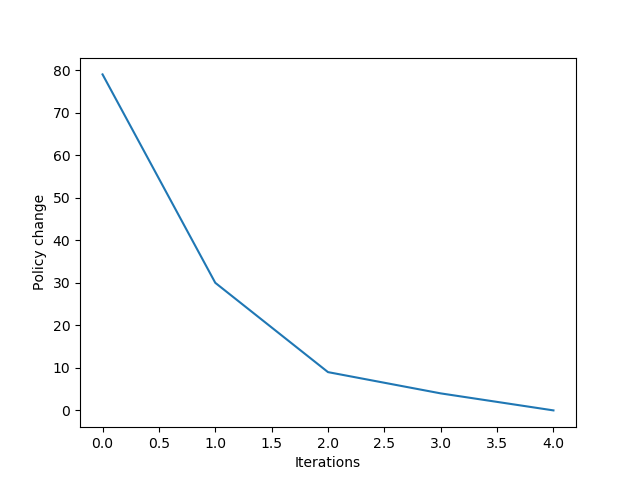
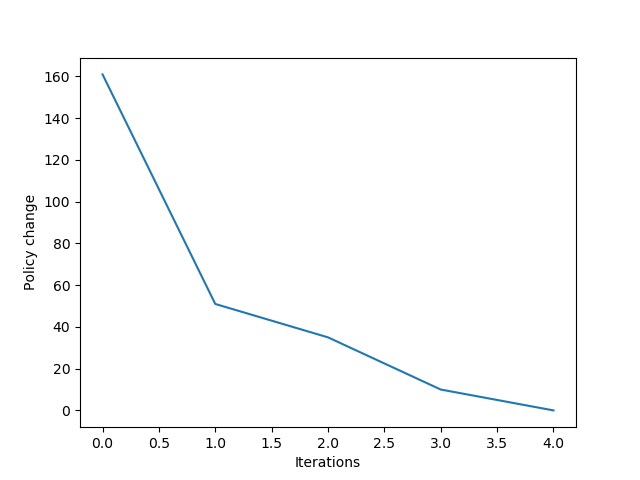
remove iteration functions

diff --git a/rlagent.py b/rlagent.py
@@ -367,128 +367,128 @@ class GMCAgent:
         return rew, r
 
 
-class DQNAgent(GMCAgent):
-    def __init__(self, lr=0.01, gamma=0.99, init_epsilon=0.9, threshold=0.1,
-                 max_steps=3000, transformer=None):
-        GMCAgent.__init__(self, lr=lr, gamma=gamma, init_epsilon=init_epsilon, threshold=threshold,
-                          max_steps=max_steps, transformer=transformer)
-        self.decision = None
-        self.memory = deque(maxlen=100000)
-
-    def Q(self, s, a):
-        return self.decision.predict(self.transform(s))[a]
-
-    def V(self, s):
-        return self.decision.predict(self.transform(s))
-
-    def policy(self, s):
-        return self.decision.predict(self.transform(s)).argmax()
-
-    def move(self, s):
-        epsilon = max(self.epsilon, self.thresh)
-        if np.random.random() < epsilon:
-            return np.random.randint(self.w.shape[1])
-        else:
-            return self.policy(s)
-
-    def _init_weights(self, env):
-        input_shape = self.transform(np.random.randn(1, env.observation_space.shape[0])).shape[1]
-        output_shape = env.action_space.n
-        self.w = np.random.randn(input_shape, output_shape)
-        model = Sequential()
-        model.add(Dense(150, input_shape=(input_shape,), activation='relu'))
-        model.add(Dense(100, activation='relu'))
-        # model.add(Dense(100, activation='relu'))
-        model.add(Dense(output_shape, activation=None))
-        model.compile(loss='mse', optimizer=Adam(learning_rate=self.alpha))
-        self.decision = model
-        model.fit(self.transform(np.random.randn(1, 8)), np.random.randn(1, 4), verbose=0)
-
-    def fit(self, env, episodes=1000, verbose=1, render_train=False):
-        if self.decision is None:
-            self._init_weights(env)
-        for episode in range(episodes):
-            if verbose:
-                print('Episode:', episode)
-            self.fit_episode(env, verbose, render_train)
-            self.epsilon = self.epsilon * 0.98
-            if np.mean(self.history['rewards'][-100:]) > 200:
-                break
-
-    def update_weights(self):
-        # import pdb; pdb.set_trace()
-        if not self.memory:
-            return
-        sars = random.sample(self.memory, min(32, len(self.memory)))
-
-        S = np.vstack([np.array(episode[0]) for episode in sars])
-        A = np.concatenate([episode[1] for episode in sars])
-        R = np.concatenate([episode[2] for episode in sars])
-        St = np.vstack([np.array(episode[3]) for episode in sars])
-
-        s_ind = np.random.choice(range(S.shape[0]), size=64)
-
-        S = S[s_ind]
-        A = A[s_ind]
-        R = R[s_ind]
-        St = St[s_ind]
-
-        rews = (np.reshape(R, (-1,1))*(np.reshape(A, (-1, 1)) == np.arange(4)))
-        y = self.gamma * self.V(np.array(St))
-        y[rews != 0] = rews[rews != 0]
-        X = self.transform(np.array(S))
-        self.decision.fit(X, y, verbose=0)
-
-    # def update_weights(self, S, A, R):
-    #     y = self.gamma * self.V(np.array(S[1:]))
-    #     rews = (np.reshape(R[:-1], (-1,1))*(np.reshape(A[:-1], (-1, 1)) == np.arange(4)))
-    #     y[rews != 0] = rews[rews != 0]
-    #     X = self.transform(np.array(S[:-1]))
-    #
-    #     self.decision.fit(X, y, verbose=0)
-
-
-        # tf = self.V(S[:-1])
-        # for i in range(1,8):
-        #     y = (np.reshape(R[i:], (-1,1))*(np.reshape(A[i:], (-1, 1)) == np.arange(4))) * self.gamma ** (i - 1) + (self.gamma ** i) * self.V(np.array(S[i:]))
-        #     X = self.transform(np.array(S[:-i]))
-        #     # import pdb; pdb.set_trace()
-        #     self.decision.fit(X, y, verbose=0)
-
-    def fit_episode(self, env, verbose, render_train):
-        S = [env.reset()]
-        a = self.move(S[0])
-        A = [a]
-        R = []
-        done = False
-        i = 0
-        while not done and i <= self.max_steps:
-            St, Rt, done, _ = env.step(a)
-            S.append(St)
-            R.append(Rt)
-            a = self.move(St)
-            if render_train:
-                env.render()
-            A.append(a)
-            i += 1
-            # for k in range(1):
-            self.update_weights()
-        # if not done:
-        #     R[-1] = -600
-        R.append(R[-1])
-        # self.update_weights(S, A, R)
-        # import pdb; pdb.set_trace()
-        self.memory.append([S[:-1], A[:-1], R[:-1], S[1:]])
-        sumr = sum(R)
-        self.history['rewards'].append(sumr)
-        if verbose:
-            print('Total reward:', sumr)
-
-    def get_weights(self):
-        return self.decision.get_weights()
-
-    def set_weights(self, w):
-        self.decision.set_weights(w)
+# class DQNAgent(GMCAgent):
+#     def __init__(self, lr=0.01, gamma=0.99, init_epsilon=0.9, threshold=0.1,
+#                  max_steps=3000, transformer=None):
+#         GMCAgent.__init__(self, lr=lr, gamma=gamma, init_epsilon=init_epsilon, threshold=threshold,
+#                           max_steps=max_steps, transformer=transformer)
+#         self.decision = None
+#         self.memory = deque(maxlen=100000)
+#
+#     def Q(self, s, a):
+#         return self.decision.predict(self.transform(s))[a]
+#
+#     def V(self, s):
+#         return self.decision.predict(self.transform(s))
+#
+#     def policy(self, s):
+#         return self.decision.predict(self.transform(s)).argmax()
+#
+#     def move(self, s):
+#         epsilon = max(self.epsilon, self.thresh)
+#         if np.random.random() < epsilon:
+#             return np.random.randint(self.w.shape[1])
+#         else:
+#             return self.policy(s)
+#
+#     def _init_weights(self, env):
+#         input_shape = self.transform(np.random.randn(1, env.observation_space.shape[0])).shape[1]
+#         output_shape = env.action_space.n
+#         self.w = np.random.randn(input_shape, output_shape)
+#         model = Sequential()
+#         model.add(Dense(150, input_shape=(input_shape,), activation='relu'))
+#         model.add(Dense(100, activation='relu'))
+#         # model.add(Dense(100, activation='relu'))
+#         model.add(Dense(output_shape, activation=None))
+#         model.compile(loss='mse', optimizer=Adam(learning_rate=self.alpha))
+#         self.decision = model
+#         model.fit(self.transform(np.random.randn(1, 8)), np.random.randn(1, 4), verbose=0)
+#
+#     def fit(self, env, episodes=1000, verbose=1, render_train=False):
+#         if self.decision is None:
+#             self._init_weights(env)
+#         for episode in range(episodes):
+#             if verbose:
+#                 print('Episode:', episode)
+#             self.fit_episode(env, verbose, render_train)
+#             self.epsilon = self.epsilon * 0.98
+#             if np.mean(self.history['rewards'][-100:]) > 200:
+#                 break
+#
+#     def update_weights(self):
+#         # import pdb; pdb.set_trace()
+#         if not self.memory:
+#             return
+#         sars = random.sample(self.memory, min(32, len(self.memory)))
+#
+#         S = np.vstack([np.array(episode[0]) for episode in sars])
+#         A = np.concatenate([episode[1] for episode in sars])
+#         R = np.concatenate([episode[2] for episode in sars])
+#         St = np.vstack([np.array(episode[3]) for episode in sars])
+#
+#         s_ind = np.random.choice(range(S.shape[0]), size=64)
+#
+#         S = S[s_ind]
+#         A = A[s_ind]
+#         R = R[s_ind]
+#         St = St[s_ind]
+#
+#         rews = (np.reshape(R, (-1,1))*(np.reshape(A, (-1, 1)) == np.arange(4)))
+#         y = self.gamma * self.V(np.array(St))
+#         y[rews != 0] = rews[rews != 0]
+#         X = self.transform(np.array(S))
+#         self.decision.fit(X, y, verbose=0)
+#
+#     # def update_weights(self, S, A, R):
+#     #     y = self.gamma * self.V(np.array(S[1:]))
+#     #     rews = (np.reshape(R[:-1], (-1,1))*(np.reshape(A[:-1], (-1, 1)) == np.arange(4)))
+#     #     y[rews != 0] = rews[rews != 0]
+#     #     X = self.transform(np.array(S[:-1]))
+#     #
+#     #     self.decision.fit(X, y, verbose=0)
+#
+#
+#         # tf = self.V(S[:-1])
+#         # for i in range(1,8):
+#         #     y = (np.reshape(R[i:], (-1,1))*(np.reshape(A[i:], (-1, 1)) == np.arange(4))) * self.gamma ** (i - 1) + (self.gamma ** i) * self.V(np.array(S[i:]))
+#         #     X = self.transform(np.array(S[:-i]))
+#         #     # import pdb; pdb.set_trace()
+#         #     self.decision.fit(X, y, verbose=0)
+#
+#     def fit_episode(self, env, verbose, render_train):
+#         S = [env.reset()]
+#         a = self.move(S[0])
+#         A = [a]
+#         R = []
+#         done = False
+#         i = 0
+#         while not done and i <= self.max_steps:
+#             St, Rt, done, _ = env.step(a)
+#             S.append(St)
+#             R.append(Rt)
+#             a = self.move(St)
+#             if render_train:
+#                 env.render()
+#             A.append(a)
+#             i += 1
+#             # for k in range(1):
+#             self.update_weights()
+#         # if not done:
+#         #     R[-1] = -600
+#         R.append(R[-1])
+#         # self.update_weights(S, A, R)
+#         # import pdb; pdb.set_trace()
+#         self.memory.append([S[:-1], A[:-1], R[:-1], S[1:]])
+#         sumr = sum(R)
+#         self.history['rewards'].append(sumr)
+#         if verbose:
+#             print('Total reward:', sumr)
+#
+#     def get_weights(self):
+#         return self.decision.get_weights()
+#
+#     def set_weights(self, w):
+#         self.decision.set_weights(w)
 
 
 class DecisionAgent:

diff --git a/iterators.py b/iterators.py
@@ -1,5 +1,14 @@
 import mdptoolbox
 import numpy as np
+import time as _time
+_MSG_STOP_MAX_ITER = "Iterating stopped due to maximum number of iterations " \
+    "condition."
+_MSG_STOP_EPSILON_OPTIMAL_POLICY = "Iterating stopped, epsilon-optimal " \
+    "policy found."
+_MSG_STOP_EPSILON_OPTIMAL_VALUE = "Iterating stopped, epsilon-optimal value " \
+    "function found."
+_MSG_STOP_UNCHANGING_POLICY = "Iterating stopped, unchanging policy found."
+
 
 class ValueIteration(mdptoolbox.mdp.ValueIteration):
     def __init__(self,*args, **kwargs):
@@ -27,38 +36,6 @@ class ValueIteration(mdptoolbox.mdp.ValueIteration):
         self.policy = iterator.policy
 
 
-def iterate_value(transitions, reward, discount=1, epsilon=0.01, max_iter=1000, initial_value=0):
-    arr = []
-    iterator = mdptoolbox.mdp.ValueIteration(transitions, reward, discount, epsilon, max_iter=1, initial_value=initial_value)
-    iterator.run()
-    Vi = iterator.V
-    for i in range(max_iter):
-        iterator = mdptoolbox.mdp.ValueIteration(transitions, reward, discount, epsilon, max_iter=1, initial_value=list(Vi),)
-        iterator.run()
-        V = iterator.V
-        arr.append(np.abs(np.array(V) - np.array(Vi)).max())
-        Vi = V
-    return iterator, arr
-
-
-def iterate_policy(transitions, reward, discount=1, max_iter=1000, policy0=None):
-    arr = []
-    iterator = mdptoolbox.mdp.PolicyIteration(transitions=transitions, reward=reward, discount=discount, max_iter=1, policy0=policy0, eval_type=1)
-    iterator.run()
-    Pi = iterator.policy
-    import pdb; pdb.set_trace()
-    Vi = iterator.V
-    for i in range(max_iter):
-        iterator = mdptoolbox.mdp.PolicyIteration(transitions=transitions, reward=reward, discount=discount, max_iter=1, policy0=list(Pi), eval_type=1)
-        iterator.run()
-        P = iterator.policy
-        V = iterator.V
-        # arr.append(np.abs(np.array(P) - np.array(Pi)).mean())
-        arr.append(np.abs(np.array(V) - np.array(Vi)).mean())
-        Pi = P
-    return iterator, arr
-
-
 def _printVerbosity(iteration, variation):
     if isinstance(variation, float):
         print("{:>10}{:>12f}".format(iteration, variation))
@@ -67,14 +44,6 @@ def _printVerbosity(iteration, variation):
     else:
         print("{:>10}{:>12}".format(iteration, variation))
 
-_MSG_STOP_MAX_ITER = "Iterating stopped due to maximum number of iterations " \
-    "condition."
-_MSG_STOP_EPSILON_OPTIMAL_POLICY = "Iterating stopped, epsilon-optimal " \
-    "policy found."
-_MSG_STOP_EPSILON_OPTIMAL_VALUE = "Iterating stopped, epsilon-optimal value " \
-    "function found."
-_MSG_STOP_UNCHANGING_POLICY = "Iterating stopped, unchanging policy found."
-import time as _time
 
 class PolicyIterationWithers(mdptoolbox.mdp.PolicyIteration):
 

diff --git a/example_usage.py b/example_usage.py
@@ -3,7 +3,7 @@ from rlagent import QLAgent
 import matplotlib.pyplot as plt
 import numpy as np
 
-street_length = 20
+street_length = 200
 park_probas = {
      0: {
         'pexist': 0.25,
@@ -38,7 +38,7 @@ drive_cost = 0.1
 katoto_cost = 10.0
 random_accident_proba = 1e-6
 random_accident_cost = 90.0
-allow_goback = True
+allow_goback = False
 pkatoto_full = 0.4
 
 if __name__ == '__main__':
